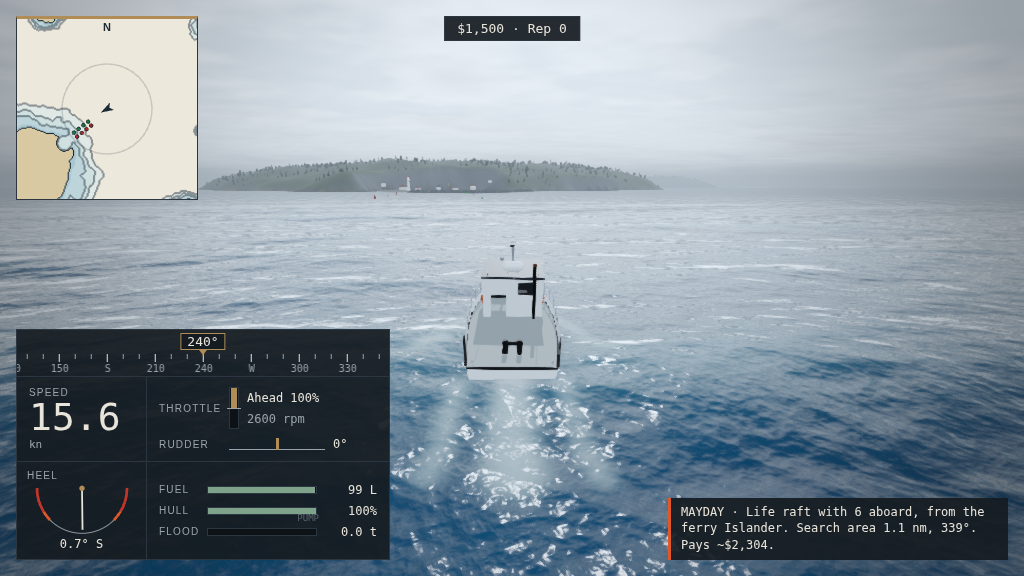
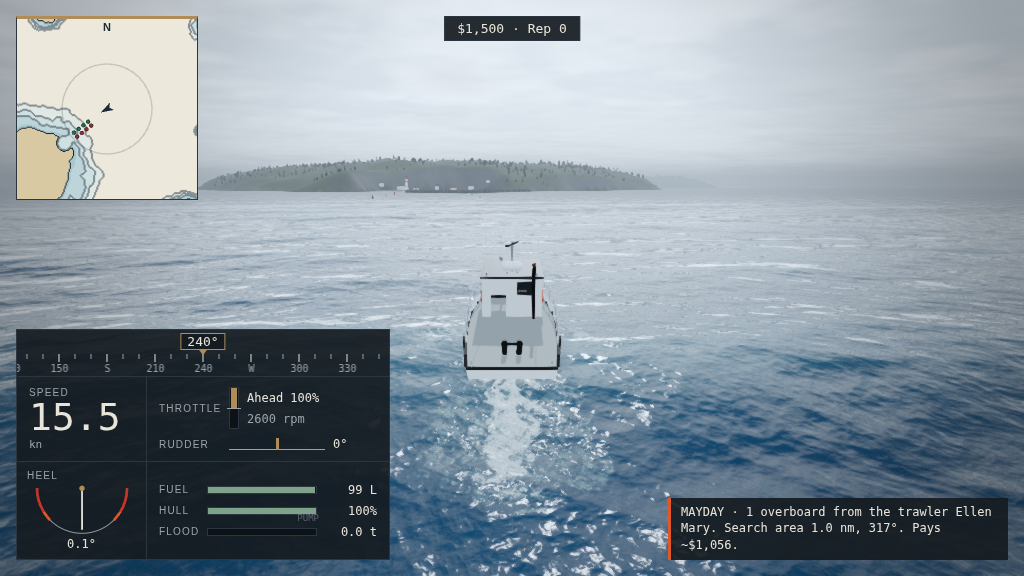
Wake: foam texture and turbulence back, still no dots
- wakeFoam(): milky film + soft-threshold Worley froth clumped along the
  band + bubble-wall lace where it thins (no isolated blobs).
- Foam map read through a ~2 m turbulent warp: ragged, billowy edges.
- Churned-water ripples roughen the reflection inside the wake.
- Kelvin arms break into a train of short crests; quarter streaks weaker
  and slower so they merge into the centre wash.
- Wake-only shader work skipped where the map is empty (verify 158 s).

Claude-Session: https://claude.ai/code/session_01N1SWFf3Ygni1PmPXnFpHoH

diff --git a/src/ocean/OceanMaterial.js b/src/ocean/OceanMaterial.js
@@ -110,6 +110,34 @@ float foamFroth(vec2 p, float cover, float footprint) {
   return mix(froth, cover, far);
 }
 
+// Wake foam: churned white water that is foam, not paint. Three layers so
+// it never breaks into isolated dots at any coverage:
+//   film  - a thin milky sheet over the whole band (continuity)
+//   froth - Worley bubbles with a soft threshold, clumped along the band
+//   lace  - connected bubble-wall network where it thins and ages
+// Coverage is broken into clumps by drifting low-frequency noise so the band
+// has turbulent structure rather than clean edges.
+float wakeFoam(vec2 p, float c, float footprint) {
+  vec2 w1 = texture2D(uFoamTex, p / 17.0 + uTime * 0.006).xy - 0.5;
+  p += w1 * 5.0;
+  p += (texture2D(uFoamTex, p / 5.3).xy - 0.5) * 1.6;
+  float clumps = texture2D(uFoamTex, p / 13.0 - uTime * 0.01).a;
+  float cc = clamp(c * (0.6 + 0.8 * clumps), 0.0, 1.0);
+  mat2 r1 = mat2(0.83, -0.56, 0.56, 0.83);
+  vec4 a = texture2D(uBubbles, p / 5.1);
+  vec4 b = texture2D(uBubbles, r1 * p / 11.7 + vec2(0.37, 0.61));
+  vec4 f = texture2D(uBubbles, r1 * r1 * p / 2.2 + vec2(0.13, 0.29));
+  float field = a.r * 0.5 + b.b * 0.3 + f.b * 0.2;
+  float edge = 1.0 - cc * 1.15;
+  float froth = smoothstep(edge - 0.16, edge + 0.16, field);
+  float lace = max(a.g, max(b.g * 0.9, f.a * 0.7));
+  float laceAmt = smoothstep(0.02, 0.35, c) * (1.0 - froth) * 0.6;
+  float film = c * (0.3 + 0.2 * clumps);
+  float foam = max(film, froth * (0.55 + 0.45 * cc)) + lace * laceAmt;
+  float far = smoothstep(0.12, 0.6, footprint);
+  return clamp(mix(foam, c * 0.85, far), 0.0, 1.0);
+}
+
 void main() {
   vec3 toCam = cameraPosition - vWorld;
   float dist = length(toCam);
@@ -132,6 +160,27 @@ void main() {
   float patchy = texture2D(uFoamTex, vWorld.xz / 420.0 + wd * uTime * 0.004).a;
   float modA = 0.45 + 1.1 * patchy;
   vec2 slope = (rA.xy * 0.6 * modA + slopeB * 0.5 * near * (1.5 - patchy)) * uDetailStrength;
+  // Dynamic foam map (wakes, contact, slams in R/B; hull footprint in G).
+  // Look the map up through a small turbulent warp (~2 m): wake edges go
+  // ragged and billowy instead of ruler-straight bands.
+  // The warp and churn only run where the map has foam (cheap elsewhere).
+  vec2 fuv = (vWorld.xz - uFoamCenter) / uFoamExtent + 0.5;
+  vec2 fe = smoothstep(0.0, 0.08, fuv) * smoothstep(1.0, 0.92, fuv);
+  vec3 dynT = foamMapSmooth(fuv);
+  if (dynT.r + dynT.b > 0.004) {
+    vec2 fw = (texture2D(uFoamTex, vWorld.xz / 21.0 + uTime * 0.012).xy - 0.5) * 3.2
+      + (texture2D(uFoamTex, vWorld.xz / 6.5 - uTime * 0.02).xy - 0.5) * 1.1;
+    dynT = foamMapSmooth(fuv + fw / uFoamExtent);
+  }
+  float dyn = (dynT.r + dynT.b) * fe.x * fe.y;
+  // Churned water in the wake: short, steep, disordered ripples break up
+  // the reflection (a wake reads by its texture as much as its foam).
+  float churn = clamp(1.0 - exp(-dyn * 1.5), 0.0, 1.0) * near;
+  if (churn > 0.01) {
+    vec3 rC = texture2D(uRipple, vWorld.xz / (uDetailScaleB * 0.35) + vec2(uTime * 0.07, -uTime * 0.05)).xyz * 2.0 - 1.0;
+    vec3 rD = texture2D(uRipple, (rot * vWorld.xz) / (uDetailScaleB * 0.6) - vec2(uTime * 0.04, uTime * 0.06)).xyz * 2.0 - 1.0;
+    slope += (rC.xy * 0.9 + rD.xy * 0.6) * churn;
+  }
   n = normalize(n + vec3(slope.x, 0.0, slope.y));
   // Distant water gets rougher, not mirror-flat, as detail mip-maps away.
   float far = 1.0 - exp(-dist / 900.0);
@@ -200,10 +249,6 @@ void main() {
   float surfWave = 0.5 + 0.5 * sin(seaDepth * 2.4 - uTime * 1.7 + breakA * 5.0);
   cover = max(cover, surfBand * (0.35 + 0.55 * surfWave) * (0.55 + min(uMaxAmp, 2.5) * 0.3));
   // Dynamic foam: wakes, hull contact, slams (R), hull footprint (G).
-  vec2 fuv = (vWorld.xz - uFoamCenter) / uFoamExtent + 0.5;
-  vec2 fe = smoothstep(0.0, 0.08, fuv) * smoothstep(1.0, 0.92, fuv);
-  vec3 dynT = foamMapSmooth(fuv);
-  float dyn = (dynT.r + dynT.b) * fe.x * fe.y;
   float hullShade = clamp(dynT.g, 0.0, 1.0);
   // Fresh wake is white; as it ages (the map fades) it opens into lace.
   float dynCover = (1.0 - exp(-dyn * 1.0)) * 0.84;
@@ -211,14 +256,12 @@ void main() {
   float aer = clamp(1.0 - exp(-dyn * 0.6), 0.0, 1.0);
   vec3 aerated = (uSSS * 1.9 + uMid * 0.8) * light + uSkyColor * 0.12;
   col = mix(col, aerated, aer * 0.55 * (1.0 - hullShade));
-  // Crest foam breaks up into Worley froth; the wake does not: thresholded
-  // bubbles along a thin wake band read as a string of dots (worst at phone
-  // resolutions), so the wake is a continuous sheet with soft streaky
-  // texture that thins as the map fades.
+  // Crest foam and wake foam are separate: the crest threshold on a thin wake
+  // band leaves isolated bubbles (dots); wakeFoam() keeps it continuous.
   float foam = foamFroth(vWorld.xz + wd * uTime * 0.12, cover, footprint);
-  float wakeTex = texture2D(uFoamTex, vWorld.xz / 9.0 + wd * uTime * 0.02).a;
-  float wakeTex2 = texture2D(uFoamTex, vWorld.xz / 3.1 - wd * uTime * 0.03).a;
-  foam = max(foam, dynCover * (0.7 + 0.2 * wakeTex + 0.1 * wakeTex2));
+  if (dynCover > 0.002) {
+    foam = max(foam, wakeFoam(vWorld.xz + wd * uTime * 0.05, dynCover, footprint));
+  }
   cover = max(cover, dynCover);
   // Water against the hull: shaded by it and reflecting it, not the sky.
   col = mix(col, body * 0.6, hullShade * 0.55);

diff --git a/src/entities/BoatEffects.js b/src/entities/BoatEffects.js
@@ -15,6 +15,7 @@ export class BoatEffects {
     this.spray = spray;
     this.wake = wake;
     this.wakeAcc = 0;
+    this.track = 0; // metres travelled (Kelvin crest phase)
     this.bowAcc = 0;
     this.washAcc = 0;
   }
@@ -78,17 +79,23 @@ export class BoatEffects {
         const bx = (-vel.x / sp) * back;
         const bz = (-vel.z / sp) * back;
         const st = this.wakeStreams();
+        this.track += WAKE.spacing;
+        // Divergent Kelvin waves break as a train of short diagonal crests,
+        // not a continuous line: foam comes and goes along the arm.
+        const lambda = Math.min(WAKE.crestMax, Math.max(WAKE.crestMin, WAKE.crestPerMs * u));
+        const phase = 0.5 + 0.5 * Math.sin(((this.track - back) / lambda) * Math.PI * 2);
+        const crest = 0.15 + 0.85 * phase * phase * phase;
         this.local(0, 0, -L / 2 + 0.2, p);
         st.centre.emit(p.x + bx, p.z + bz, 0, 0, B * 0.24, WAKE.centreGrow + 0.012 * u, WAKE.centreStrength * wake, age);
         for (const [i, s] of [[0, 1], [1, -1]]) {
-          const out = s * 0.1 * u;
+          const out = s * WAKE.quarterDrift * u;
           this.local(s * B * 0.42, 0, -L / 2 + 0.1, p);
           st.quarter[i].emit(p.x + bx, p.z + bz, side.x * out, side.z * out, B * 0.1, 0.09, WAKE.quarterStrength * wake, age);
           if (bow > 0.1) {
             // Bow-wave crest: runs outward at tan(19.5°) of boat speed.
             const k = s * KELVIN * u;
             this.local(s * B * 0.45, 0, L / 2 - 2.2, p);
-            st.kelvin[i].emit(p.x + bx, p.z + bz, side.x * k, side.z * k, 0.7, 0.12, WAKE.kelvinStrength * bow, age);
+            st.kelvin[i].emit(p.x + bx, p.z + bz, side.x * k, side.z * k, 0.7, 0.12, WAKE.kelvinStrength * bow * crest, age);
           }
         }
       }

diff --git a/src/config/render.js b/src/config/render.js
@@ -62,9 +62,14 @@ export const WAKE = {
   centreGrow: 0.3, // m/s radius growth (turbulent wake widening)
   centreStrength: 1.5, // foam coverage at the transom (ribbons are MAX blended)
   quarterLife: 12,
-  quarterStrength: 1.1,
+  quarterStrength: 0.75, // the quarter streaks merge into the centre wash
+  quarterDrift: 0.05, // outward drift as a fraction of boat speed
   kelvinLife: 9,
   kelvinStrength: 1.3,
+  // Kelvin arm crest spacing (m): crestPerMs x speed, clamped.
+  crestPerMs: 1.1,
+  crestMin: 5,
+  crestMax: 16,
 };
 
 // Wind-torn spray off breaking crests around the camera (gale/storm haze).

diff --git a/docs/PROGRESS.md b/docs/PROGRESS.md
@@ -26,7 +26,7 @@
 - `v2-bow-spray.png`: slam spray now shows droplet streaks plus mist (droplets were invisible before).
 - `v3-tow-taut.png`: Marlin towing the trawler in Rough on 28 m of line, line taut (10 kN), tow panel up. Trawler model is simple but reads.
 - `v3-pull-aboard.png`: survivor being hauled up the Marlin's side (60%), hypothermia bar and prompt visible.
-- `v2-wake.png` (V4): wake is now continuous soft streaks (no dots, no texel steps); prop-wash crest froth still bubbly near the transom. Could use a little more texture far astern.
+- `v2-wake.png` (V4): churned, frothy wake with lacy edges behind the transom; no dots or texel steps. The verify run only builds 5.5 s of wake.
 - `v4-kettle-harbor.png`: Marlin at the pier inside the rubble breakwater, lighthouse, channel buoys; pier planks read flat brown.
 - `v4-kestrel.png`, `v4-bulwark.png` (from a dev run, not verify): RIB at 28 kn with grey collar, console and outboard; tug with white wheelhouse, red funnel, tyre fenders. Bulwark's wake is faint for her size.
 - `v4-shipyard.png`: chart-paper shipyard at phone width (800×450), Tow line II fitted.
@@ -61,18 +61,7 @@
 - **D52 Phones, second pass:** shadows off again on Low (the version that ran well had none), no preserved drawing buffer on Low; context loss auto-restarts at most once per session, then shows a Restart button (reload loops can get WebGL blocked); start-up errors are shown on screen.
 - **D51 Phone resilience:** Low preset pixel ratio 0.75 → 0.6, foam map 256, 2000 spray particles; dynamic resolution on touch devices (drops 15% steps to 0.6× after 3 s under 26 fps, recovers above 50 fps); WebGL context loss shows a notice and reloads; ocean/spray outputs clamped so an overflow can never smear Inf across post passes.
 - **D54 Autopilot creep is opt-in** (`opts.creep`): inside 30 m with |heading error| > 0.7 rad the speed command is capped at 0.5 m/s so it turns on prop wash instead of orbiting a small target. Only the rescue approach passes it; the scripted tow's line-up needs normal speed.
-- **D55 Wake is a continuous sheet, not froth:** the ocean shader no longer runs the dynamic (wake/contact) foam through the Worley bubble threshold (thin bands became strings of dots, worst on phones); it is soft coverage with streaky texture. Ribbons are widened to ≥ 1.5 foam texels (strength scaled down to match) so they can't bead between texel centres; contact stamps are spread back along the track at low fps; the foam map is sampled with a 4-tap cubic B-spline (bilinear showed the 0.8 m texel grid on Low).
-- **D56 Upgrades rewrite a per-game copy of the boat cfg** (`structuredClone` in `Game.create`; `applyUpgrades` recomputes from the base config, so it is idempotent). Hull plating is `hull.damageScale` 0.6 on every damage source.
-- **D57 Autopilot (T):** steers to the chart waypoint or the job objective at 80% of top speed; any helm key, lever or wheel movement hands back control; stops 60 m short, or for seabed < 4 m within 150 m ahead. Time ×4 only in Calm/Moderate with nothing within 300 m (targets, people, shallows, ports); radio calls drop it to ×1.
-- **D58 Verify is pixel-bound:** SwiftShader rasterises on the CPU and JS is cheap (10 s of sim in 0.23 s), so milestone shots render at 1024×576 (Medium), the smoke page at 800×450 (Low), each lane has its own browser, and screenshots are CDP captures of a paused, freshly rendered frame (`snap`); page.screenshot waited ~10 s for a new frame. 176 s → 143 s.
-- **D59 Kestrel:** 1.6 t, VCG 0.45 m, roll gyration 0.24·B, thrust 6.0 kN with vProp 80 m/s, long quad 4, lateral drag halved (450/300) and 30° × 0.2 m² rudder. With full lateral grip a hard-over at 37 kn needs ~1 g and the displacement model heels her outward past 80° (no planing bank-in), so her turning circle is measured at a 40% "rescue cruise" throttle (~28 kn → 9 kn in the turn). At full speed a hard-over still heels her ~55°: twitchy, as the spec wants.
-- **D60 Bulwark:** VCG 0.6 m (1.6 was negative GM on this hull), freeboard 1.3 m, roll gyration 0.26·B; nearly flat thrust (25 kN, vProp 60 m/s) against mostly quadratic drag (long quad 360) so 0→10 kn takes ~32 s with a 13.5 kn top speed; reverse efficiency 0.16 for the ~170 m stop; lateral drag cut to 20000/12000 so she doesn't stall in a hard turn. Tow point 4.5 m from the stern (H-bitt; `towPointFromStern`).
-- **D61 Switching boats** saves the career and reloads at the berth with the other boat (`?boat=` for test pages); the live session is not rebuilt in place. Allowed only berthed at Kettle Harbor with no job and no tow.
-- **D62 Chart base from the depth texture:** the chart and minimap paint the world's baked 512² depth/land texture (14 m/px): paper, four depth bands, 5/10/20 m contours, ink coastline. No extra terrain sampling at start-up. Click the chart to set the waypoint (the autopilot's target); the job circle is the offer's approximate position until within 450 m.
-- **D63 sim:economy definitions:** 12 seeded careers over 8 h on a 15-min weather Markov chain; job minutes per the spec's pay checks (Calm tow 12, 2-person rescue 7) including transit, ×1.2 rough … ×1.4 storm; the player keeps a $1,200 reserve and buys down a shopping list (upgrades in table order, Kestrel after the autopilot, Bulwark last). "First upgrade" = first purchase; "Kestrel/Bulwark affordable" = cumulative net earnings reach the price; "everything owned" = every boat and every upgrade once. Earning rates: Marlin in alternating Calm/Moderate; Bulwark working a Storm.
-- **D64 Pay raised ~18% to hit the pacing** (spec 0.1 balance authority): person in water base 300 → 380, per 250 → 280; raft 200/180 → 240/200; crew 400/300 → 460/330; tow share 0.15 → 0.18; swamped bonus 800 → 900; Storm payout 3.0 → 3.6. A Calm 2-person rescue now pays $940 and a Calm trawler tow $2,520 at full condition. Result: $8.3k/h Calm/Moderate, $13.1k/h storms, first upgrade 13 min, Kestrel 72 min, Bulwark 2.8 h, everything 5.5 h.
-- **D65 Guided first job:** a new career (no save) starts with the Wren (sailboat) disabled 520 m seaward of Kettle Harbor, the job already accepted; Calm and the clock held until she is in; prompts only (throttle, low-speed steering once, approach, winch, cast off, then the job board). Random offers resume 20 s after. `?tutorial` forces it on test pages (with `&spawn=harbor`).
-- **D66 Passing the line by backing down:** the verify driver gets ahead of the tow on her own heading and backs down onto her bow (`Autopilot.backDown`: heading + lateral-offset hold, rudder reversed astern). Lining up from abeam with a point past her bow only worked for the 16 m trawler.
+- **D55 Wake foam (third pass):** the wake has its own foam function (`wakeFoam`), not the crest froth: a milky film for continuity, Worley froth with a soft threshold clumped along the band, and a lace of bubble walls where it thins, so it never breaks into dots. The foam map is read through a ~2 m turbulent warp (ragged, billowy edges) with a 4-tap B-spline (no 0.8 m texel steps on Low); churned-water ripples roughen the reflection in the wake. Kelvin arms break into a train of short crests (spacing 1.1 m per m/s, 5–16 m); quarter streaks are weaker and drift less so they merge into the centre wash. Ribbons are ≥ 1.5 texels wide; contact stamps are spread along the track at low fps. All wake work is skipped on pixels with no foam.
 - **D47 Verify budget:** test-physics runs at nice 10; tow screenshot run-up 70 → 40 s. Verify is at ~172 s; the next milestone needs another saving (e.g. fewer page loads or shorter slam wait).
 - Earlier decisions D1–D27: see `docs/CHANGELOG.md`.
 

diff --git a/docs/CHANGELOG.md b/docs/CHANGELOG.md
@@ -4,7 +4,7 @@
 - V4a The Grey Reach: noise-shaped granite islands, shallows, reefs, dredged harbor basin + channel (`WorldShape`, shared by physics, rendering and tests); island meshes, instanced spruce, trimesh colliders; Kettle Harbor breakwater, pier, fuel dock, quay, crane, houses; Pellow Point and Farrow stations; three lighthouses, IALA-A channel buoys, reef marks; sheltered harbor water; shore surf from a baked depth texture.
 - Career core: person in the water, life raft, crew transfer, disabled tow and swamped vessel jobs; radio maydays; job board (Tab) and port services (E: fuel, repairs); reputation, economy, tow-home after a wreck, bankruptcy bail-out; localStorage save and autosave.
 - Headless career tests: a tow job and a rescue job from the board to Kettle Harbor, paid through the same code as the game. Autopilot creep inside the turning circle is opt-in (rescue approach only).
-- Wake: no more dots (continuous soft sheet, min ribbon width, contact stamps spread along the track, cubic-filtered foam map).
+- Wake: no more dots and real texture: dedicated wake foam (film + soft froth + lace), ragged warped edges, churned-water ripples, Kelvin arms broken into crests, merged quarter streaks; min ribbon width, contact stamps spread along the track, cubic-filtered foam map.
 - Shipyard (Kettle Harbor, E → Shipyard): Searchlight II, Fuel tanks II, Tow line II, Pumps II, winch auto-tension, Autopilot, Hull plating, Radar, Engine II (`config/upgrades.js`, `gameplay/Upgrades.js`, `ui/Shipyard.js`); effects applied to the live boat and saved. T autopilot with ×4 time compression (`core/AutopilotSession.js`).
 - Kestrel (7.5 m RIB) and Bulwark (22 m tug): configs tuned to every section-4 target, procedural models (`BoatModels.js`), engine voices; bought and switched at the shipyard; saved hull and fuel restored; seakeeping tests (Kestrel Moderate, Bulwark Gale).
 - Chart (M): nautical chart of the Grey Reach with depth bands, contours, nav aids, ports, job circles, radar returns and a click-to-set autopilot waypoint; chart-style minimap on the HUD (`ui/Chart.js`, `ui/Minimap.js`, `ui/chartBase.js`, `core/MapSession.js`). MAP touch button.
